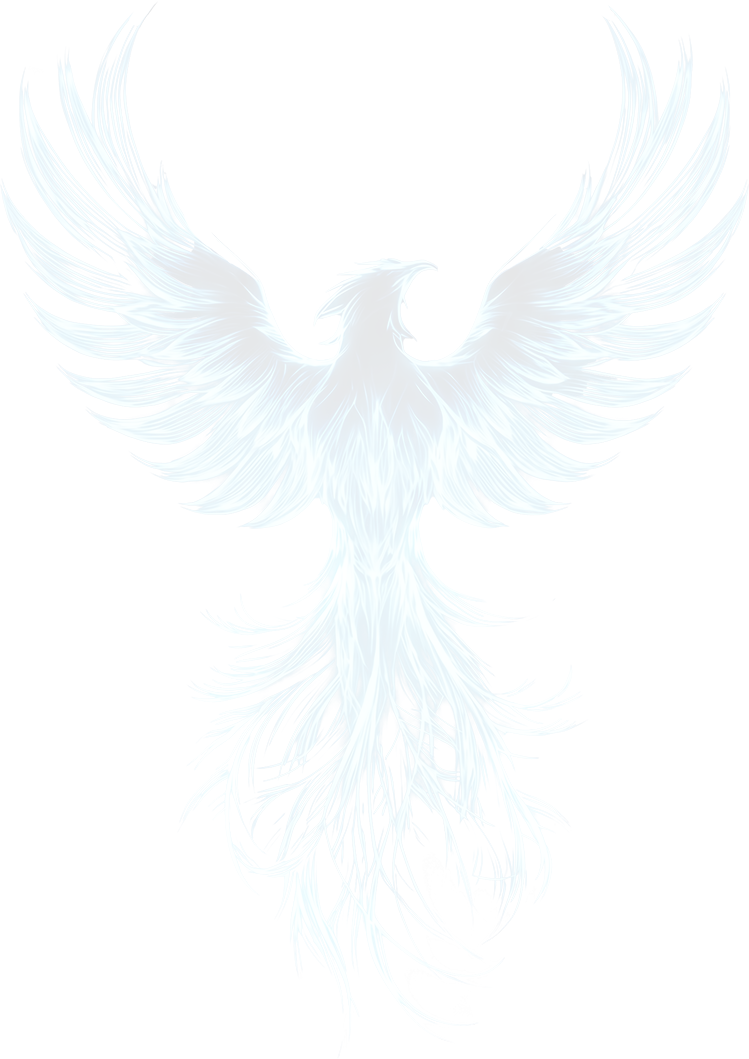
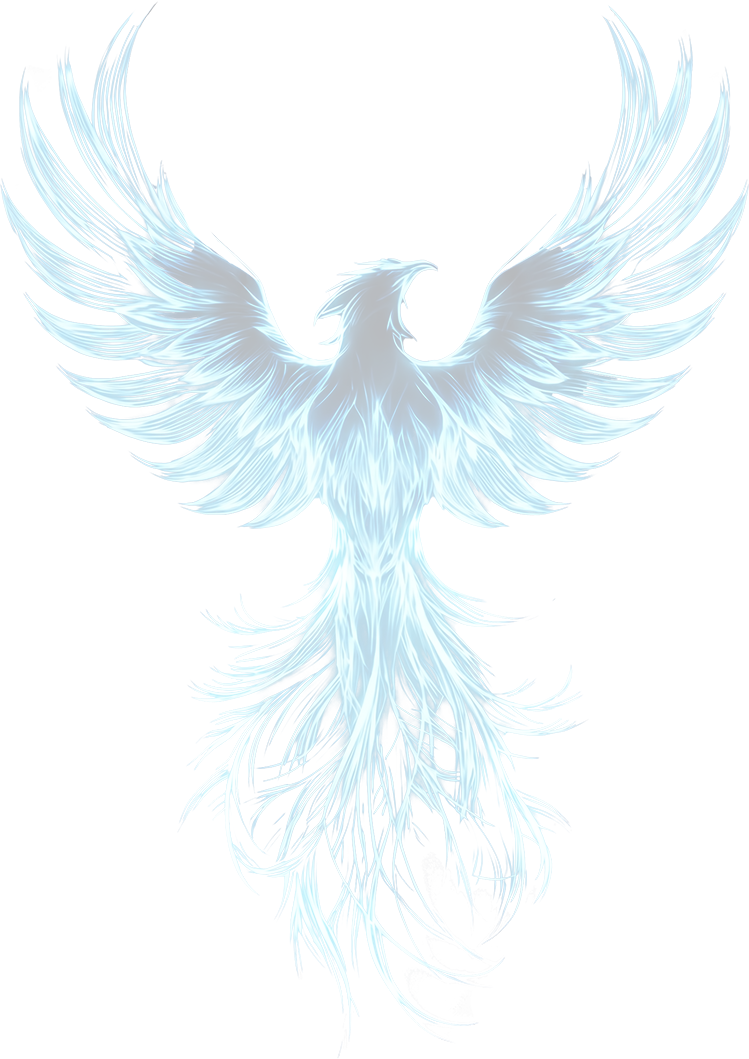
Initial Commit

diff --git a/phoenix-website/app/globals.css b/phoenix-website/app/globals.css
@@ -4,12 +4,12 @@
 
 html,
 body {
-  background-color: #0a0e1a;
-  background-image: radial-gradient(ellipse 900px 550px at 50% -8%, rgba(29, 111, 224, 0.42), transparent 60%),
-    radial-gradient(ellipse 700px 500px at 95% 25%, rgba(125, 211, 252, 0.16), transparent 60%),
-    radial-gradient(ellipse 800px 600px at 5% 75%, rgba(29, 111, 224, 0.2), transparent 60%),
-    radial-gradient(ellipse 600px 400px at 90% 95%, rgba(125, 211, 252, 0.1), transparent 60%),
-    radial-gradient(ellipse 1500px 1000px at 50% 40%, transparent 35%, rgba(5, 7, 14, 0.6) 100%),
+  background-color: #070911;
+  background-image: radial-gradient(ellipse 900px 550px at 50% -8%, rgba(29, 111, 224, 0.32), transparent 60%),
+    radial-gradient(ellipse 700px 500px at 95% 25%, rgba(125, 211, 252, 0.11), transparent 60%),
+    radial-gradient(ellipse 800px 600px at 5% 75%, rgba(29, 111, 224, 0.14), transparent 60%),
+    radial-gradient(ellipse 600px 400px at 90% 95%, rgba(125, 211, 252, 0.07), transparent 60%),
+    radial-gradient(ellipse 1500px 1000px at 50% 40%, transparent 30%, rgba(3, 4, 8, 0.72) 100%),
     url("/phoenix-watermark.png");
   background-size: auto, auto, auto, auto, auto, 1000px auto;
   background-position: center, center, center, center, center, center 40px;

diff --git a/phoenix-website/app/layout.js b/phoenix-website/app/layout.js
@@ -11,7 +11,7 @@ export default function RootLayout({ children }) {
   return (
     <html lang="en">
       <body>
-        <div className="min-h-screen bg-ink text-white flex flex-col">
+        <div className="min-h-screen text-white flex flex-col">
           <SiteHeader />
           <main className="flex-1 w-full">{children}</main>
           <footer className="border-t border-border px-5 py-6 text-center text-muted text-[11px]">

diff --git a/phoenix-website/tailwind.config.js b/phoenix-website/tailwind.config.js
@@ -7,10 +7,10 @@ module.exports = {
   theme: {
     extend: {
       colors: {
-        ink: "#0A0E1A",
-        surface: "#111726",
-        surfaceAlt: "#19202F",
-        border: "#252D40",
+        ink: "#070911",
+        surface: "#0F1421",
+        surfaceAlt: "#161C2B",
+        border: "#232A3B",
         muted: "#8A93A8",
         flame1: "#1D6FE0",
         flame2: "#7DD3FC",
